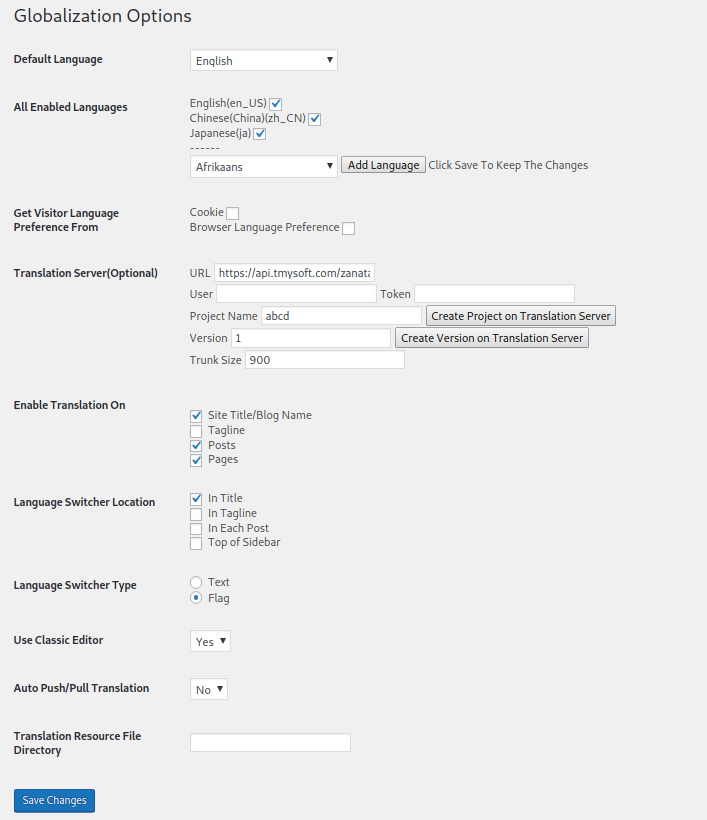
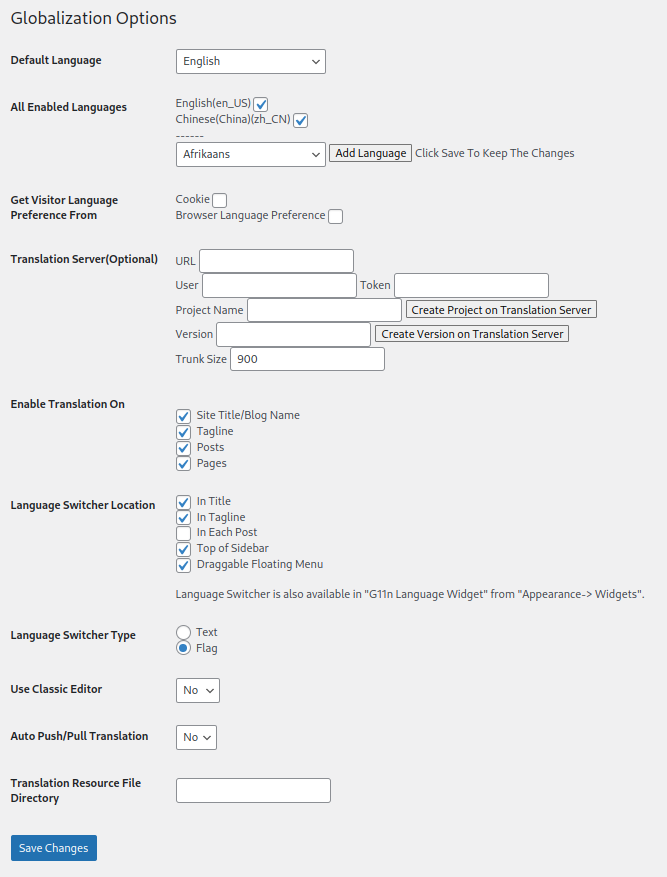
update howto

diff --git a/README.md b/README.md
@@ -2,14 +2,14 @@
 
 ----
 
-TMY Plugin is an open source system for internationalization and localization of Wordpress based websites. TMY Plugin could extract the text for translation, translate and integrate back into Wordpress. TMY Plugin provides multiple ways to handle different development phases of the Wordpress websites.
+TMY Plugin is an open source software for internationalization and localization of Wordpress based websites. TMY Plugin could extract the text for translation, translate and integrate back into Wordpress. TMY Plugin provides multiple ways to handle different development phases of the Wordpress websites.
 
 
 ----
 
 ## Install and activate TMY Plugin 
 
-<kbd>![TMY Plugin Install](https://github.com/tmysoft/tmy-wordpress/blob/master/doc/tmy-addplugin.png "TMY Plugin Install")</kbd>
+<kbd>![TMY Plugin Install](doc/tmy-addplugin.png "TMY Plugin Install")</kbd>
 
 Download the plugin zip file from https://github.com/tmysoft/tmy-wordpress/releases, e.g. tmy-globalization-1.0.0.zip 
 
@@ -17,13 +17,23 @@ Or, search the "TMY plugin", install and activate it.
 
 ## Configure TMY Plugin
 
-<kbd>![TMY Plugin Setup](https://github.com/tmysoft/tmy-wordpress/blob/master/doc/tmy-setup.png "TMY Plugin Setup")</kbd>
+From the Wordpress dashboard side menu, Settings -> TMY setup:
+
+<kbd>![TMY Plugin Setup](doc/tmy-setup.png "TMY Plugin Setup")</kbd>
+
+Key configuration:
+- Configure the additional enabled languages
+- Do you enable translations on key properties: site title, tagline, posts and pages
+- Language switcher location
+- How do you want your language switcher to look like, just text or showing flags
+
+Remember to save your changes
 
 ## Use TMY Plugin to translate a Post or Page
 
-Log into the admin panel of wordpress, navigate to the post page, click button ![TMY Translate Button](https://github.com/tmysoft/tmy-wordpress/blob/master/doc/tmy-translatebutton.png "TMY Translate Button")
+Log into the admin panel of wordpress, navigate to the post page you want to translate, click button ![TMY Translate Button](doc/tmy-translatebutton.png "TMY Translate Button")
 
-<kbd>![TMY Post](https://github.com/tmysoft/tmy-wordpress/blob/master/doc/tmy-page.png "TMY Post")</kbd>
+<img src="doc/tmy-page.png" width="600"/>
 
 Put the translation into the corresponding translation editor of the page or post, then Publish it.
 
